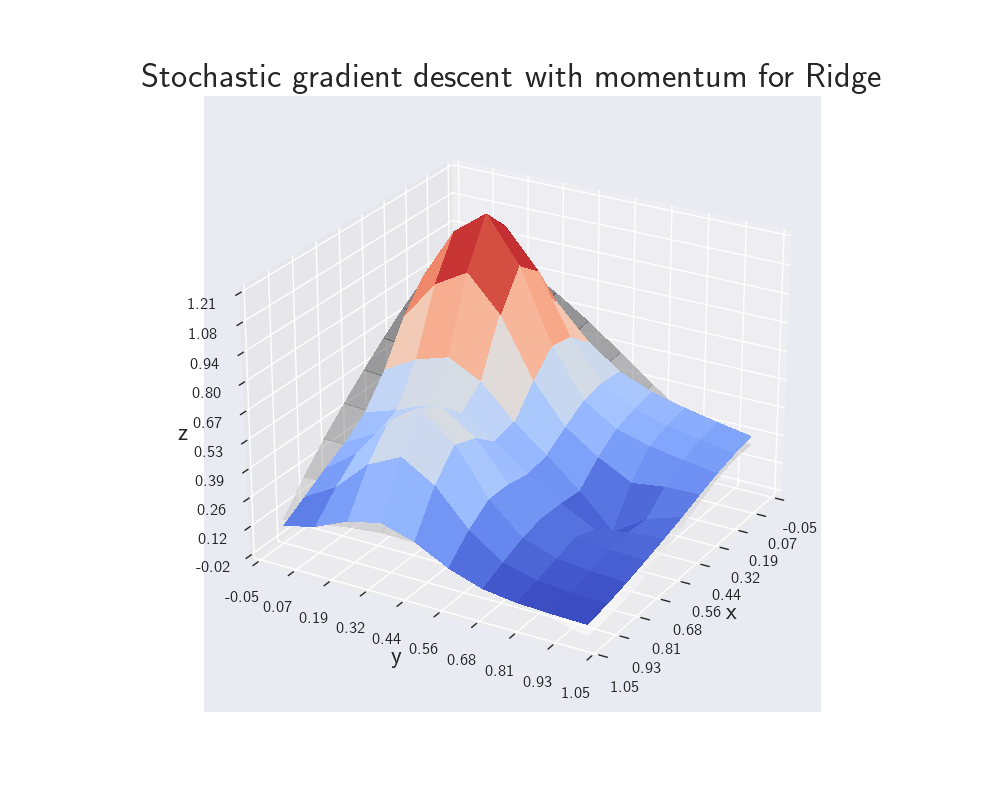
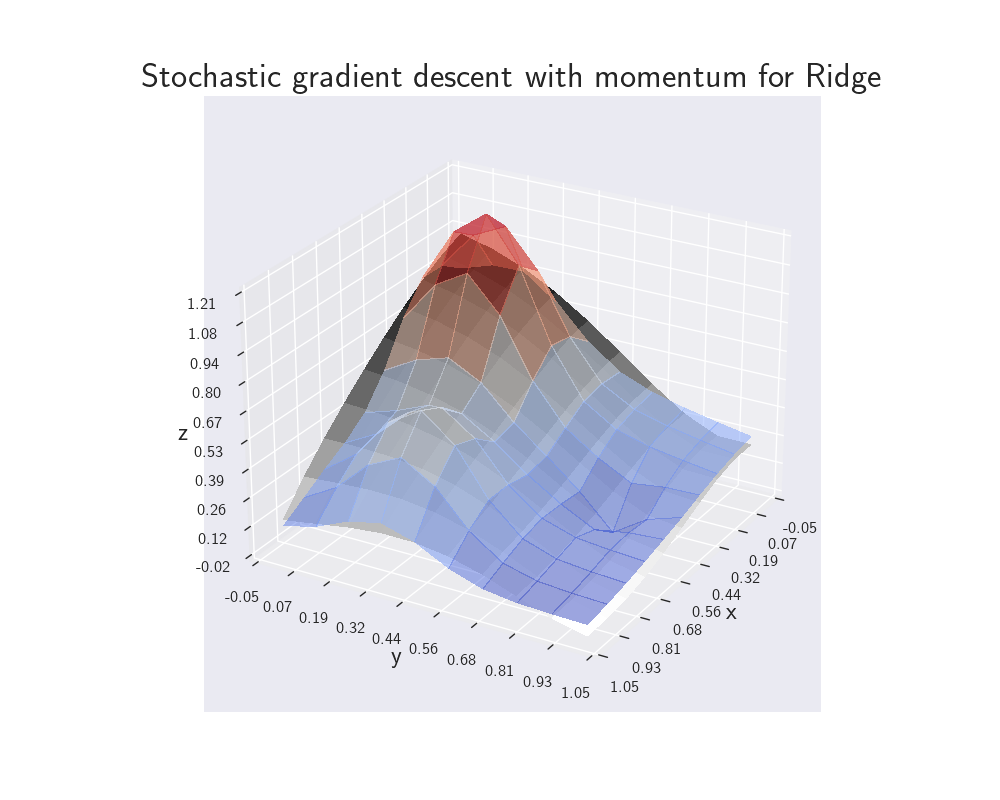
pusher før jeg gjør endringer

Changed region(s): [[0.279, 0.25, 0.775, 0.7812]]

diff --git a/Project2/main_sebastian.py b/Project2/main_sebastian.py
@@ -10,7 +10,7 @@ from common_sebastian import (FrankeFunction, create_X, scale, MSE)
 from methods_sebastian import OLS, Ridge
 from plot_sebastian import model_terrain, MSE_lamb
 
-def main():
+def main_1():
     np.random.seed(2018) # Generate random values from seed.
 
     N = 10 # Number of datapoints.
@@ -30,46 +30,73 @@ def main():
     gamma = 0.9 # Paramter used in momentum SGD.
     tol = 0.0001 # Tolerance for sum between analytical and numerical gradient.
     v = 0 # Initial velocity for stochastic gradient descent with momentum.
-    N_lambdas = 10 # The number of lambdas.
-    lambdas = np.logspace(-4, 1, N_lambdas) # Generate different lambda values.
-    eta0 = 0.001 # When we compare with scikitlearn we use a constant learning rate.
     m = int(len(X)/M) # Used when we split into minibatches.
-    alph_solid = 1.0 # The alph values are used for which transparency to use in plotting of model and data.
-    alph_transparent = 0.5
-
-
+    alph_1= 0.5 # The alph values are used for which transparency to use in plotting of model and data.
+    alph_2 = 1.0
+    optimal_lambda = 4.28*10**(-2) # found this in last project.
 
     model = OLS(z, X, m, M, 0) # Initialize our OLS model.
     # Calculate methods for OLS:
-    MSE1_OLS, beta1 = model.SGD(x, y, z_data, n_epochs, M, t0, t1, tol)
-    MSE2_OLS, beta2 = model.GDM(x, y, z_data, n_epochs, M, t0, t1, v, gamma, tol)
+    MSE1_OLS, beta1 = model.SGD(x, y, z_data, n_epochs, t0, t1, tol, True)
+    MSE2_OLS, beta2 = model.GDM(x, y, z_data, n_epochs, t0, t1, v, gamma, tol, True)
     # Plots for OLS:
-    model_terrain(X, x, y, beta1, N, 'Stochastic gradient descent for OLS', z_data, alph_transparent, alph_solid)
-    model_terrain(X, x, y, beta2, N, 'Stochastic gradient descent with momentum for OLS', z_data, alph_solid, alph_transparent)
+    model_terrain(X, x, y, beta1, N, 'Stochastic gradient descent for OLS', z_data, alph_2, alph_1)
+    model_terrain(X, x, y, beta2, N, 'Stochastic gradient descent with momentum for OLS', z_data, alph_1, alph_2)
     # Compare with scikit: (we only have loss model for OLS).
+    eta0 = 0.001 # When we compare with scikitlearn we use a constant learning rate.
     model.compare_MSE(n_epochs, t0, eta0)
 
-    model = Ridge(z, X, m, M, 4.28*10**(-2)) # Initialize our Ridge model with specific lambda value.
+    model = Ridge(z, X, m, M, optimal_lambda) # Initialize our Ridge model with specific lambda value.
     # This was the optimal lambda value from the last project.
     # Calculate methods for Ridge:
-    MSE1_Ridge, beta1 = model.SGD(x, y, z_data, n_epochs, M, t0, t1, tol)
-    MSE2_Ridge, beta2 = model.GDM(x, y, z_data, n_epochs, M, t0, t1, v, gamma, tol)
+    MSE1_Ridge, beta1 = model.SGD(x, y, z_data, n_epochs, t0, t1, tol, False)
+    MSE2_Ridge, beta2 = model.GDM(x, y, z_data, n_epochs, t0, t1, v, gamma, tol, False)
     # Plots for Ridge:
-    model_terrain(X, x, y, beta1, N, 'Stochastic gradient descent for Ridge', z_data, alph_solid, alph_transparent)
-    model_terrain(X, x, y, beta2, N, 'Stochastic gradient descent with momentum for Ridge', z_data, alph_transparent, alph_solid)
+    model_terrain(X, x, y, beta1, N, 'Stochastic gradient descent for Ridge', z_data, alph_2, alph_1)
+    model_terrain(X, x, y, beta2, N, 'Stochastic gradient descent with momentum for Ridge', z_data, alph_2, alph_1)
+
+    return MSE2_Ridge
+
+
+def main_2(optimal_MSE):
+
+    np.random.seed(2018) # Generate random values from seed.
+
+    N = 10 # Number of datapoints.
+    polydegree = 5 # Degree for polynomial.
+    x = np.linspace(0, 1, N)
+    y = np.linspace(0, 1, N)
+    x, y = np.meshgrid(x, y)
+    z = FrankeFunction(x, y)
+    z_data = z # Copy of the real data.
+    z = np.ravel(z)[:, np.newaxis] # Removes one dimension and add axis to each element.
+    X = create_X(x, y, polydegree) # Creates design matix.
+    X = scale(X) # Scale our matrix.
+
+    n_epochs = 1000 # Number of epochs. 10000
+    M = 10   #size of each minibatch (10 gave good results)
+    t0, t1 = 0.5, 100 # Paramters used in learning rate. # 50
+    gamma = 0.9 # Paramter used in momentum SGD.
+    tol = 0.0001 # Tolerance for sum between analytical and numerical gradient.
+    v = 0 # Initial velocity for stochastic gradient descent with momentum.
+    m = int(len(X)/M) # Used when we split into minibatches.
+    optimal_lambda = 4.28*10**(-2)
+
+    N_lambdas = 10 # The number of lambdas.
+    lambdas = np.logspace(-4, 1, N_lambdas) # Generate different lambda values.
+    lambdas[5] = optimal_lambda # We insert the optimal lambda value we found in the last project.
 
     MSE_Ridge_plot = np.zeros(len(lambdas)) # Collect the MSE after n_epochs iterations.
     for l in range(len(lambdas)): # Run through our lambda values.
         model_ = Ridge(z, X ,m ,M, lambdas[l]) # Initialize our Ridge model.
-        MSE2_Ridge, beta2 = model_.GDM(x, y, z_data, n_epochs, M, t0, t1, v, gamma, tol)
-        MSE_Ridge_plot[l] = MSE2_Ridge # Collect MSE at last n for momentum SGD.
+        MSE_Ridge, beta2_ = model_.GDM(x, y, z_data, n_epochs, t0, t1, v, gamma, tol, False)
+        MSE_Ridge_plot[l] = MSE_Ridge # Collect MSE at last n for momentum SGD.
 
-    print(MSE_Ridge_plot)
     ind = np.argmin(MSE_Ridge_plot)
-    print(ind)
-    print(lambdas[ind])
-    #MSE_lamb(MSE_Ridge_plot, lambdas)
+    MSE_lamb(MSE_Ridge_plot, lambdas, ind, optimal_lambda)
+
+    return lambdas[ind]
 
 
-
-main()
+optimal_MSE = main_1()
+main_2(optimal_MSE)

diff --git a/Project2/methods_sebastian.py b/Project2/methods_sebastian.py
@@ -2,6 +2,7 @@ import autograd.numpy as np
 from autograd import elementwise_grad
 from common_sebastian import (MSE, learning_schedule)
 from sklearn.linear_model import SGDRegressor, LinearRegression, Ridge
+import time
 
 class GradientDecent:
     def __init__(self, z, X, m, M, lamb):
@@ -11,14 +12,14 @@ class GradientDecent:
         self.M = M
         self.m = m
 
-    def SGD(self, x, y, z_data, n_epochs, M, t0, t1, tol):
+    def SGD(self, x, y, z_data, n_epochs, t0, t1, tol, timer):
         # The stochastic gradient descent.
-        m = int(len(self.X)/M) #number of minibatches
+        start = time.time() # Start timer.
         beta = np.random.randn(np.shape(self.X)[1],1) # Generate random initial beta values.
         for epoch in range(n_epochs):
-            for i in range(m):
+            for i in range(self.m):
                 gradients = elementwise_grad(self.cost_func) # Use autograd to calculate the gradient of the cost function.
-                eta = learning_schedule(epoch*m+i,t0,t1) # Change the learning rate.
+                eta = learning_schedule(epoch*self.m+i,t0,t1) # Change the learning rate.
                 # Stochastic gradient descent:
                 beta = beta - eta * gradients(beta)
                 if np.linalg.norm(gradients(beta))<0.01: # If less than tolarance we stop our gradient descent.
@@ -31,20 +32,26 @@ class GradientDecent:
         assert np.all(np.squeeze(self.gradient_analytical(beta))[:] \
         - np.squeeze(gradient_num(beta))[:] < tol)
 
+        end = time.time() # End timer.
+        if timer == True:
+            print(end - start)
+
         return mean_squared_error_1, beta
 
 
-    def GDM(self, x, y, z_data, n_epochs, M, t0, t1, v, gamma, tol):
+    def GDM(self, x, y, z_data, n_epochs, t0, t1, v, gamma, tol, timer):
         # The momentum stochastic gradient descent.
-        m = int(len(self.X)/M) #number of minibatches
+        start = time.time() # Start timer.
         beta = np.random.randn(np.shape(self.X)[1],1) # Generate random initial beta values.
         for epoch in range(n_epochs):
-            for i in range(m):
+            for i in range(self.m):
                 gradients = elementwise_grad(self.cost_func) # Use autograd to calculate the gradient of the cost function.
-                eta = learning_schedule(epoch*m+i,t0,t1) # Change the learning rate.
+                eta = learning_schedule(epoch*self.m+i,t0,t1) # Change the learning rate.
                 # Stochastic gradient descent with momentum:
                 v = gamma*v + eta*gradients(beta)
                 beta = beta - v
+
+                #print(np.linalg.norm(gradients(beta)))
                 if np.linalg.norm(gradients(beta))<0.01: # If less than tolarance we stop our gradient descent.
                     break
 
@@ -55,6 +62,9 @@ class GradientDecent:
         assert np.all(np.squeeze(self.gradient_analytical(beta))[:] \
         - np.squeeze(gradient_num(beta))[:] < tol)
 
+        end = time.time() # End timer.
+        if timer == True:
+            print(end - start)
         return mean_squared_error_2, beta
 
     def compare_MSE(self, n_epochs, t0, eta0):

diff --git a/Project2/plot_sebastian.py b/Project2/plot_sebastian.py
@@ -37,7 +37,7 @@ def model_terrain(X, x, y, beta, N, title, z_data, a, b):
     #ax.zaxis.set_major_locator(LinearLocator(10))
     plt.savefig(f'Plots/{title}')
 
-def MSE_lamb(MSE, lamb):
+def MSE_lamb(MSE, lamb, ind, optimal_lambda):
     # Plots the MSE as a function of lambda.
     fig = plt.figure(figsize=(10,8))
     ax = fig.add_subplot()
@@ -45,6 +45,9 @@ def MSE_lamb(MSE, lamb):
     ax.tick_params(axis='y', which='major', labelsize=18)
     ax.set_title('MSE as a function of lambda', fontsize=25)
     ax.plot(np.log(lamb), MSE, label='SGD with momentum')
+    ax.plot(np.log(lamb[ind]), MSE[ind], markersize=20, marker = 'o', label=f'$\lambda$={lamb[ind]:.4f}')
+    ax.plot(np.log(lamb[5]), MSE[5], markersize=20, marker= 'o', label=f'$\lambda$={optimal_lambda:.4f}')
+    #ax.plot(np.log(optimal_lambda), optimal_MSE, markersize=20, marker= 'o', label=f'$\lambda$={optimal_lambda:.4f}')
     ax.set_xlabel(r'$\log_{10}(\lambda)$', fontsize=18)
     ax.set_ylabel('MSE', fontsize=18)
     ax.legend(fontsize=18)
